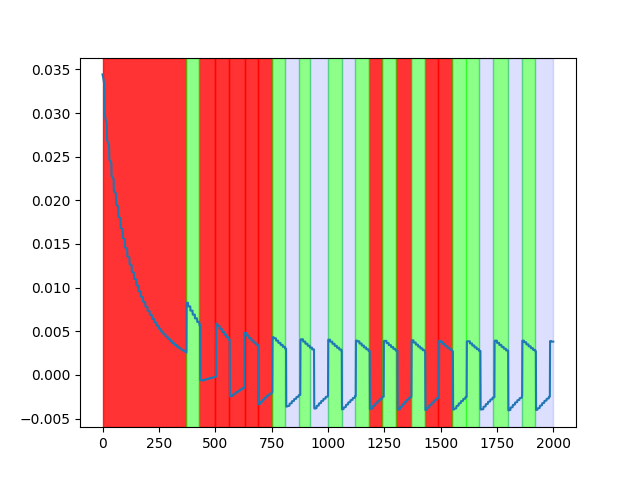
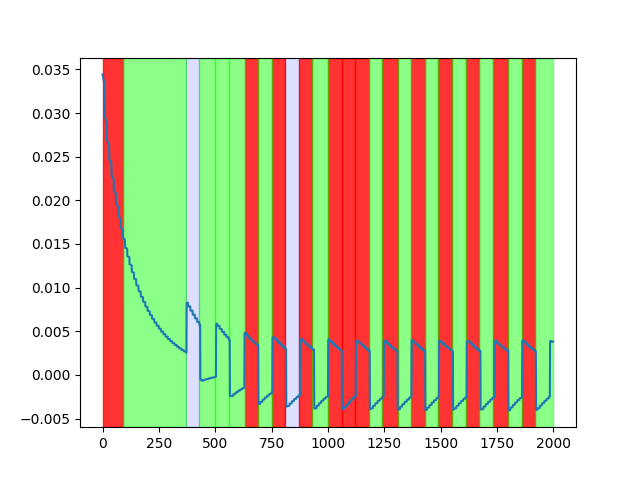
Some updates on results.

diff --git a/results/two_tank/cluster.tex b/results/two_tank/cluster.tex
@@ -1,8 +1,9 @@
 % This file was created with tikzplotlib v0.10.1.
 \begin{tikzpicture}
 
-\definecolor{cyan0255245}{RGB}{0,255,245}
+\definecolor{blue015255}{RGB}{0,15,255}
 \definecolor{darkgray176}{RGB}{176,176,176}
+\definecolor{lime72550}{RGB}{7,255,0}
 \definecolor{steelblue31119180}{RGB}{31,119,180}
 
 \begin{axis}[
@@ -18,26 +19,8 @@ ytick style={color=black}
 \path [draw=red, fill=red, opacity=0.8]
 (axis cs:0,0)
 --(axis cs:0,1)
---(axis cs:370,1)
---(axis cs:370,0)
---cycle;
-\path [draw=red, fill=red, opacity=0.8]
-(axis cs:430,0)
---(axis cs:430,1)
---(axis cs:500,1)
---(axis cs:500,0)
---cycle;
-\path [draw=red, fill=red, opacity=0.8]
-(axis cs:500,0)
---(axis cs:500,1)
---(axis cs:560,1)
---(axis cs:560,0)
---cycle;
-\path [draw=red, fill=red, opacity=0.8]
-(axis cs:560,0)
---(axis cs:560,1)
---(axis cs:630,1)
---(axis cs:630,0)
+--(axis cs:90,1)
+--(axis cs:90,0)
 --cycle;
 \path [draw=red, fill=red, opacity=0.8]
 (axis cs:630,0)
@@ -46,22 +29,22 @@ ytick style={color=black}
 --(axis cs:690,0)
 --cycle;
 \path [draw=red, fill=red, opacity=0.8]
-(axis cs:690,0)
---(axis cs:690,1)
+(axis cs:750,0)
 --(axis cs:750,1)
---(axis cs:750,0)
---cycle;
-\path [draw=red, fill=red, opacity=0.8]
-(axis cs:810,0)
 --(axis cs:810,1)
---(axis cs:870,1)
---(axis cs:870,0)
+--(axis cs:810,0)
 --cycle;
 \path [draw=red, fill=red, opacity=0.8]
-(axis cs:920,0)
---(axis cs:920,1)
+(axis cs:870,0)
+--(axis cs:870,1)
+--(axis cs:930,1)
+--(axis cs:930,0)
+--cycle;
+\path [draw=red, fill=red, opacity=0.8]
+(axis cs:1000,0)
 --(axis cs:1000,1)
---(axis cs:1000,0)
+--(axis cs:1060,1)
+--(axis cs:1060,0)
 --cycle;
 \path [draw=red, fill=red, opacity=0.8]
 (axis cs:1060,0)
@@ -70,16 +53,16 @@ ytick style={color=black}
 --(axis cs:1120,0)
 --cycle;
 \path [draw=red, fill=red, opacity=0.8]
-(axis cs:1180,0)
+(axis cs:1120,0)
+--(axis cs:1120,1)
 --(axis cs:1180,1)
---(axis cs:1240,1)
---(axis cs:1240,0)
+--(axis cs:1180,0)
 --cycle;
 \path [draw=red, fill=red, opacity=0.8]
-(axis cs:1300,0)
---(axis cs:1300,1)
---(axis cs:1370,1)
---(axis cs:1370,0)
+(axis cs:1240,0)
+--(axis cs:1240,1)
+--(axis cs:1310,1)
+--(axis cs:1310,0)
 --cycle;
 \path [draw=red, fill=red, opacity=0.8]
 (axis cs:1370,0)
@@ -88,16 +71,10 @@ ytick style={color=black}
 --(axis cs:1430,0)
 --cycle;
 \path [draw=red, fill=red, opacity=0.8]
-(axis cs:1430,0)
---(axis cs:1430,1)
+(axis cs:1490,0)
 --(axis cs:1490,1)
---(axis cs:1490,0)
---cycle;
-\path [draw=red, fill=red, opacity=0.8]
-(axis cs:1550,0)
 --(axis cs:1550,1)
---(axis cs:1610,1)
---(axis cs:1610,0)
+--(axis cs:1550,0)
 --cycle;
 \path [draw=red, fill=red, opacity=0.8]
 (axis cs:1610,0)
@@ -106,76 +83,106 @@ ytick style={color=black}
 --(axis cs:1670,0)
 --cycle;
 \path [draw=red, fill=red, opacity=0.8]
-(axis cs:1670,0)
---(axis cs:1670,1)
---(axis cs:1730,1)
---(axis cs:1730,0)
---cycle;
-\path [draw=red, fill=red, opacity=0.8]
-(axis cs:1800,0)
---(axis cs:1800,1)
---(axis cs:1860,1)
---(axis cs:1860,0)
---cycle;
-\path [draw=red, fill=red, opacity=0.8]
-(axis cs:1920,0)
---(axis cs:1920,1)
---(axis cs:2000,1)
---(axis cs:2000,0)
---cycle;
-\path [draw=cyan0255245, fill=cyan0255245, opacity=0.3]
-(axis cs:370,0)
---(axis cs:370,1)
---(axis cs:430,1)
---(axis cs:430,0)
---cycle;
-\path [draw=cyan0255245, fill=cyan0255245, opacity=0.3]
-(axis cs:750,0)
---(axis cs:750,1)
---(axis cs:810,1)
---(axis cs:810,0)
---cycle;
-\path [draw=cyan0255245, fill=cyan0255245, opacity=0.3]
-(axis cs:870,0)
---(axis cs:870,1)
---(axis cs:920,1)
---(axis cs:920,0)
---cycle;
-\path [draw=cyan0255245, fill=cyan0255245, opacity=0.3]
-(axis cs:1000,0)
---(axis cs:1000,1)
---(axis cs:1060,1)
---(axis cs:1060,0)
---cycle;
-\path [draw=cyan0255245, fill=cyan0255245, opacity=0.3]
-(axis cs:1120,0)
---(axis cs:1120,1)
---(axis cs:1180,1)
---(axis cs:1180,0)
---cycle;
-\path [draw=cyan0255245, fill=cyan0255245, opacity=0.3]
-(axis cs:1240,0)
---(axis cs:1240,1)
---(axis cs:1300,1)
---(axis cs:1300,0)
---cycle;
-\path [draw=cyan0255245, fill=cyan0255245, opacity=0.3]
-(axis cs:1490,0)
---(axis cs:1490,1)
---(axis cs:1550,1)
---(axis cs:1550,0)
---cycle;
-\path [draw=cyan0255245, fill=cyan0255245, opacity=0.3]
 (axis cs:1730,0)
 --(axis cs:1730,1)
 --(axis cs:1800,1)
 --(axis cs:1800,0)
 --cycle;
-\path [draw=cyan0255245, fill=cyan0255245, opacity=0.3]
+\path [draw=red, fill=red, opacity=0.8]
 (axis cs:1860,0)
 --(axis cs:1860,1)
 --(axis cs:1920,1)
 --(axis cs:1920,0)
+--cycle;
+\path [draw=lime72550, fill=lime72550, opacity=0.466666666666667]
+(axis cs:90,0)
+--(axis cs:90,1)
+--(axis cs:370,1)
+--(axis cs:370,0)
+--cycle;
+\path [draw=lime72550, fill=lime72550, opacity=0.466666666666667]
+(axis cs:430,0)
+--(axis cs:430,1)
+--(axis cs:500,1)
+--(axis cs:500,0)
+--cycle;
+\path [draw=lime72550, fill=lime72550, opacity=0.466666666666667]
+(axis cs:500,0)
+--(axis cs:500,1)
+--(axis cs:560,1)
+--(axis cs:560,0)
+--cycle;
+\path [draw=lime72550, fill=lime72550, opacity=0.466666666666667]
+(axis cs:560,0)
+--(axis cs:560,1)
+--(axis cs:630,1)
+--(axis cs:630,0)
+--cycle;
+\path [draw=lime72550, fill=lime72550, opacity=0.466666666666667]
+(axis cs:690,0)
+--(axis cs:690,1)
+--(axis cs:750,1)
+--(axis cs:750,0)
+--cycle;
+\path [draw=lime72550, fill=lime72550, opacity=0.466666666666667]
+(axis cs:930,0)
+--(axis cs:930,1)
+--(axis cs:1000,1)
+--(axis cs:1000,0)
+--cycle;
+\path [draw=lime72550, fill=lime72550, opacity=0.466666666666667]
+(axis cs:1180,0)
+--(axis cs:1180,1)
+--(axis cs:1240,1)
+--(axis cs:1240,0)
+--cycle;
+\path [draw=lime72550, fill=lime72550, opacity=0.466666666666667]
+(axis cs:1310,0)
+--(axis cs:1310,1)
+--(axis cs:1370,1)
+--(axis cs:1370,0)
+--cycle;
+\path [draw=lime72550, fill=lime72550, opacity=0.466666666666667]
+(axis cs:1430,0)
+--(axis cs:1430,1)
+--(axis cs:1490,1)
+--(axis cs:1490,0)
+--cycle;
+\path [draw=lime72550, fill=lime72550, opacity=0.466666666666667]
+(axis cs:1550,0)
+--(axis cs:1550,1)
+--(axis cs:1610,1)
+--(axis cs:1610,0)
+--cycle;
+\path [draw=lime72550, fill=lime72550, opacity=0.466666666666667]
+(axis cs:1670,0)
+--(axis cs:1670,1)
+--(axis cs:1730,1)
+--(axis cs:1730,0)
+--cycle;
+\path [draw=lime72550, fill=lime72550, opacity=0.466666666666667]
+(axis cs:1800,0)
+--(axis cs:1800,1)
+--(axis cs:1860,1)
+--(axis cs:1860,0)
+--cycle;
+\path [draw=lime72550, fill=lime72550, opacity=0.466666666666667]
+(axis cs:1920,0)
+--(axis cs:1920,1)
+--(axis cs:2000,1)
+--(axis cs:2000,0)
+--cycle;
+\path [draw=blue015255, fill=blue015255, opacity=0.133333333333333]
+(axis cs:370,0)
+--(axis cs:370,1)
+--(axis cs:430,1)
+--(axis cs:430,0)
+--cycle;
+\path [draw=blue015255, fill=blue015255, opacity=0.133333333333333]
+(axis cs:810,0)
+--(axis cs:810,1)
+--(axis cs:870,1)
+--(axis cs:870,0)
 --cycle;
 \addplot [semithick, steelblue31119180]
 table {%

diff --git a/src/evaluation.py b/src/evaluation.py
@@ -8,7 +8,7 @@ def calculate_switch_rates(tolerance, path):
     with open(f"{path}/switches.csv", 'r') as file:
         reader = csv.reader(file)
         for row in reader:
-            detected_switches.append(float(row[0]))  # Assuming switch values are in the first column
+            detected_switches.append(float(row[0]))
 
     # Read ground truth switches from gt_switches.csv
     ground_truth_switches = []
@@ -31,7 +31,7 @@ def calculate_switch_rates(tolerance, path):
     false_positives = len(detected_switches) - true_positives
     false_positive_rate = false_positives / len(detected_switches)
 
-    return true_positive_rate, false_positive_rate
+    return true_positive_rate, false_positive_rate, len(detected_switches)
 
 def calculate_mean_loss(path):
     # Read cluster loss from clusters.csv
@@ -65,9 +65,10 @@ if __name__ == "__main__":
     path = sys.argv[1]
     tolerance = float(sys.argv[2])
     
-    tp_rate, fp_rate = calculate_switch_rates(tolerance, path)
+    tp_rate, fp_rate, num_detected = calculate_switch_rates(tolerance, path)
     mean_loss = calculate_mean_loss(path)
     file = open(f"{path}/evaluation.txt", "w")
+    file.write(f"Number of detected switches: {num_detected}\n")
     file.write(f"True positive rate: {tp_rate}\n")
     file.write(f"False positive rate: {fp_rate}\n")
     file.write(f"Mean loss: {mean_loss}\n")

diff --git a/results/two_tank/switches.tex b/results/two_tank/switches.tex
@@ -2024,6 +2024,11 @@ table {%
 };
 \addplot [semithick, red]
 table {%
+90.0000000000001 -0.00599527041987174
+90.0000000000001 0.0363471210855088
+};
+\addplot [semithick, red]
+table {%
 370 -0.00599527041987174
 370 0.0363471210855088
 };
@@ -2069,8 +2074,8 @@ table {%
 };
 \addplot [semithick, red]
 table {%
-920 -0.00599527041987174
-920 0.0363471210855088
+930 -0.00599527041987174
+930 0.0363471210855088
 };
 \addplot [semithick, red]
 table {%
@@ -2099,8 +2104,8 @@ table {%
 };
 \addplot [semithick, red]
 table {%
-1300 -0.00599527041987174
-1300 0.0363471210855088
+1310 -0.00599527041987174
+1310 0.0363471210855088
 };
 \addplot [semithick, red]
 table {%
